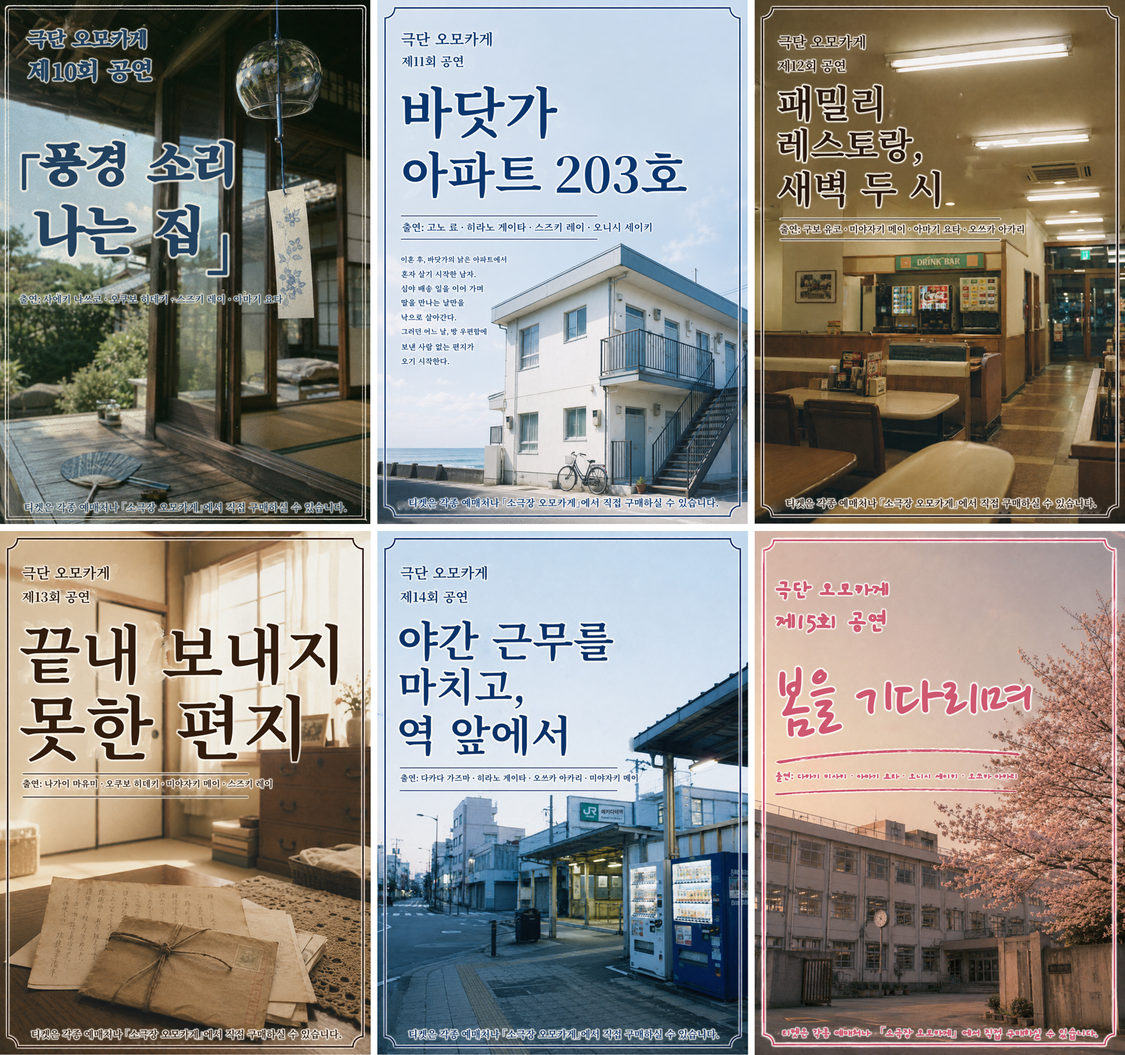
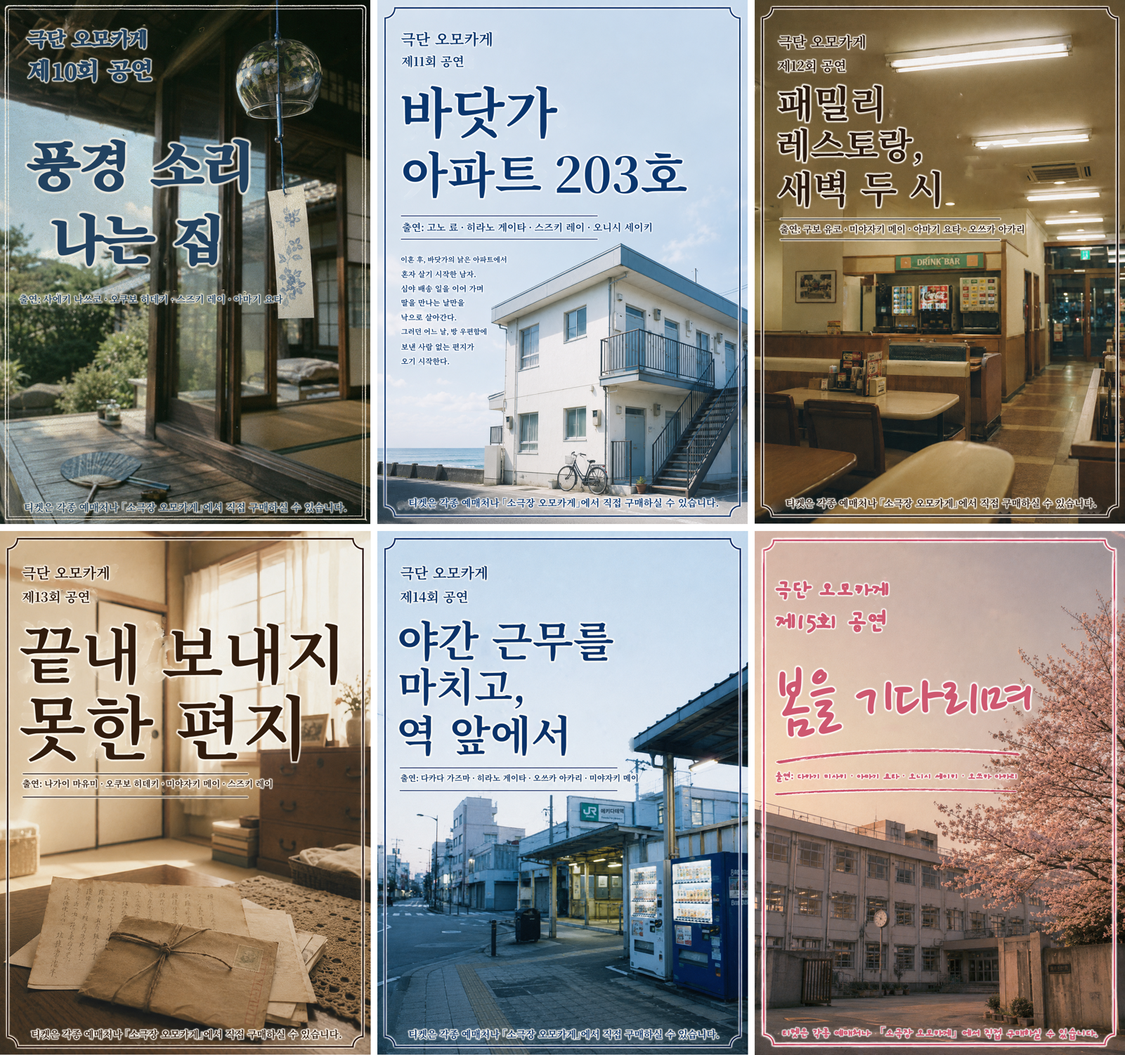
전단 10회 제목 「」 빼고 두 줄 크기 맞춤, 14회 역 간판 글자 사진 질감에 맞춤(판 색 메우기·약한 흐림·노이즈)

Changed region(s): [[0.0, 0.1225, 0.2498, 0.2756]]

diff --git a/tools/img_ko2_scripts/flyer/ps_fillrect.jsx b/tools/img_ko2_scripts/flyer/ps_fillrect.jsx
@@ -1,0 +1,15 @@
+app.displayDialogs = DialogModes.NO; app.preferences.rulerUnits = Units.PIXELS;
+var D = "C:/Users/user/arg/omokage-kr/_adobe/flyer/";
+var A = (function(){ var f = new File($.fileName.replace(/\.jsx$/, ".args.txt")); f.open("r"); var t = f.read(); f.close(); return eval("(" + t + ")"); })();
+while (app.documents.length) app.documents[0].close(SaveOptions.DONOTSAVECHANGES);
+var doc = app.open(new File(D + "erased_" + A.name + ".psd"));
+var L = null; for (var i = 0; i < doc.layers.length; i++) if (doc.layers[i].name == "erased") L = doc.layers[i];
+doc.activeLayer = L;
+for (var k = 0; k < A.rects.length; k++) { var q = A.rects[k];
+  doc.selection.select([[q[0], q[1]], [q[2], q[1]], [q[2], q[3]], [q[0], q[3]]]); doc.selection.feather(1);
+  var c = new SolidColor(); c.rgb.red = q[4]; c.rgb.green = q[5]; c.rgb.blue = q[6]; doc.selection.fill(c);
+  L.applyAddNoise(A.noise || 2, NoiseDistribution.GAUSSIAN, true); L.applyGaussianBlur(0.6); }
+doc.selection.deselect();
+var so = new PhotoshopSaveOptions(); so.layers = true; doc.saveAs(new File(D + "erased_" + A.name + ".psd"), so, true);
+doc.saveAs(new File(D + "erased_" + A.name + ".png"), new PNGSaveOptions(), true);
+doc.close(SaveOptions.DONOTSAVECHANGES); "ok";

diff --git a/tools/img_ko2_scripts/flyer/ps_final.jsx b/tools/img_ko2_scripts/flyer/ps_final.jsx
@@ -10,7 +10,11 @@ function addPng(path, name) {
   L = doc.layers[0]; L.name = name; return L;
 }
 if (A.halo !== false) { var h = addPng(D + "halo_" + N + ".png", "halo"); if (HB > 0) h.applyGaussianBlur(HB); h.opacity = HO; }
-addPng(D + "text_" + N + ".png", "text_ko");
+var T = addPng(D + "text_" + N + ".png", "text_ko");
+if (A.soft) { for (var k = 0; k < A.soft.length; k++) { var q = A.soft[k]; doc.activeLayer = T;
+  doc.selection.select([[q[0], q[1]], [q[2], q[1]], [q[2], q[3]], [q[0], q[3]]]);
+  T.applyGaussianBlur(q[4]); T.applyAddNoise(q[5], NoiseDistribution.GAUSSIAN, true); doc.selection.deselect(); } }
+if (A.textOpacity) T.opacity = A.textOpacity;
 var so = new PhotoshopSaveOptions(); so.layers = true; doc.saveAs(new File(D + "final_" + N + ".psd"), so, true);
 doc.saveAs(new File(OUT), new PNGSaveOptions(), true);
 doc.close(SaveOptions.DONOTSAVECHANGES); "ok";
